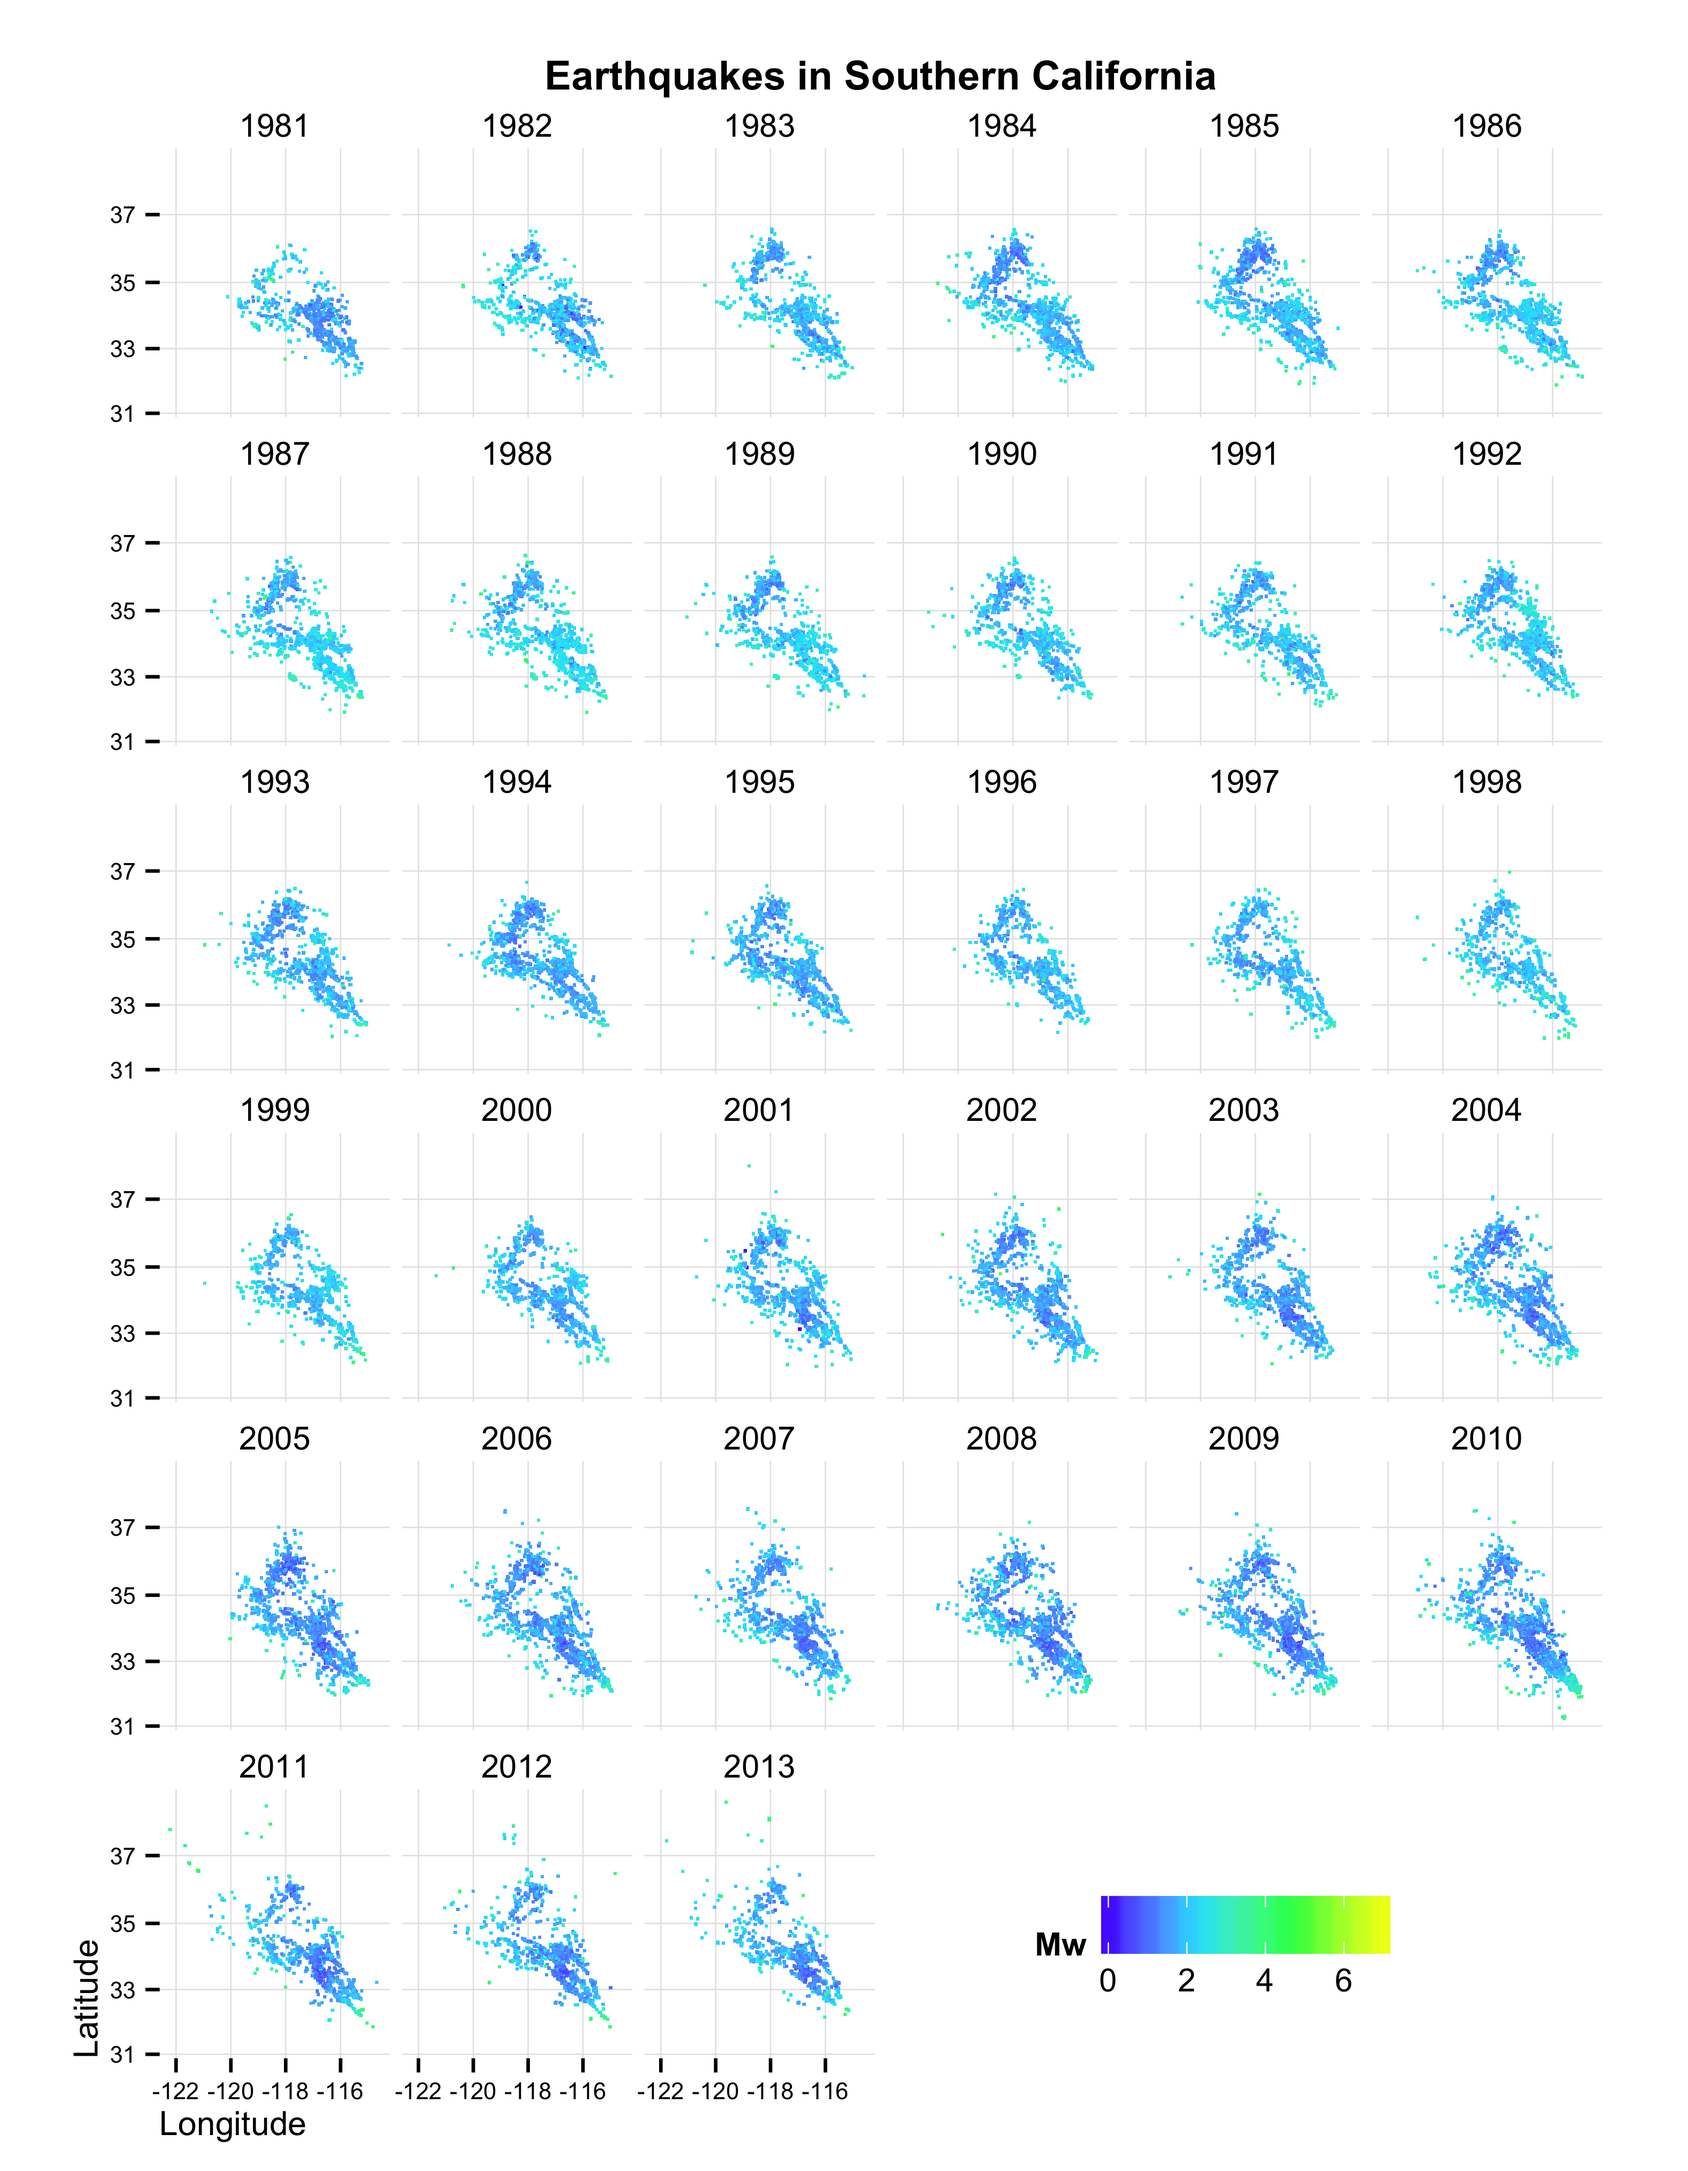
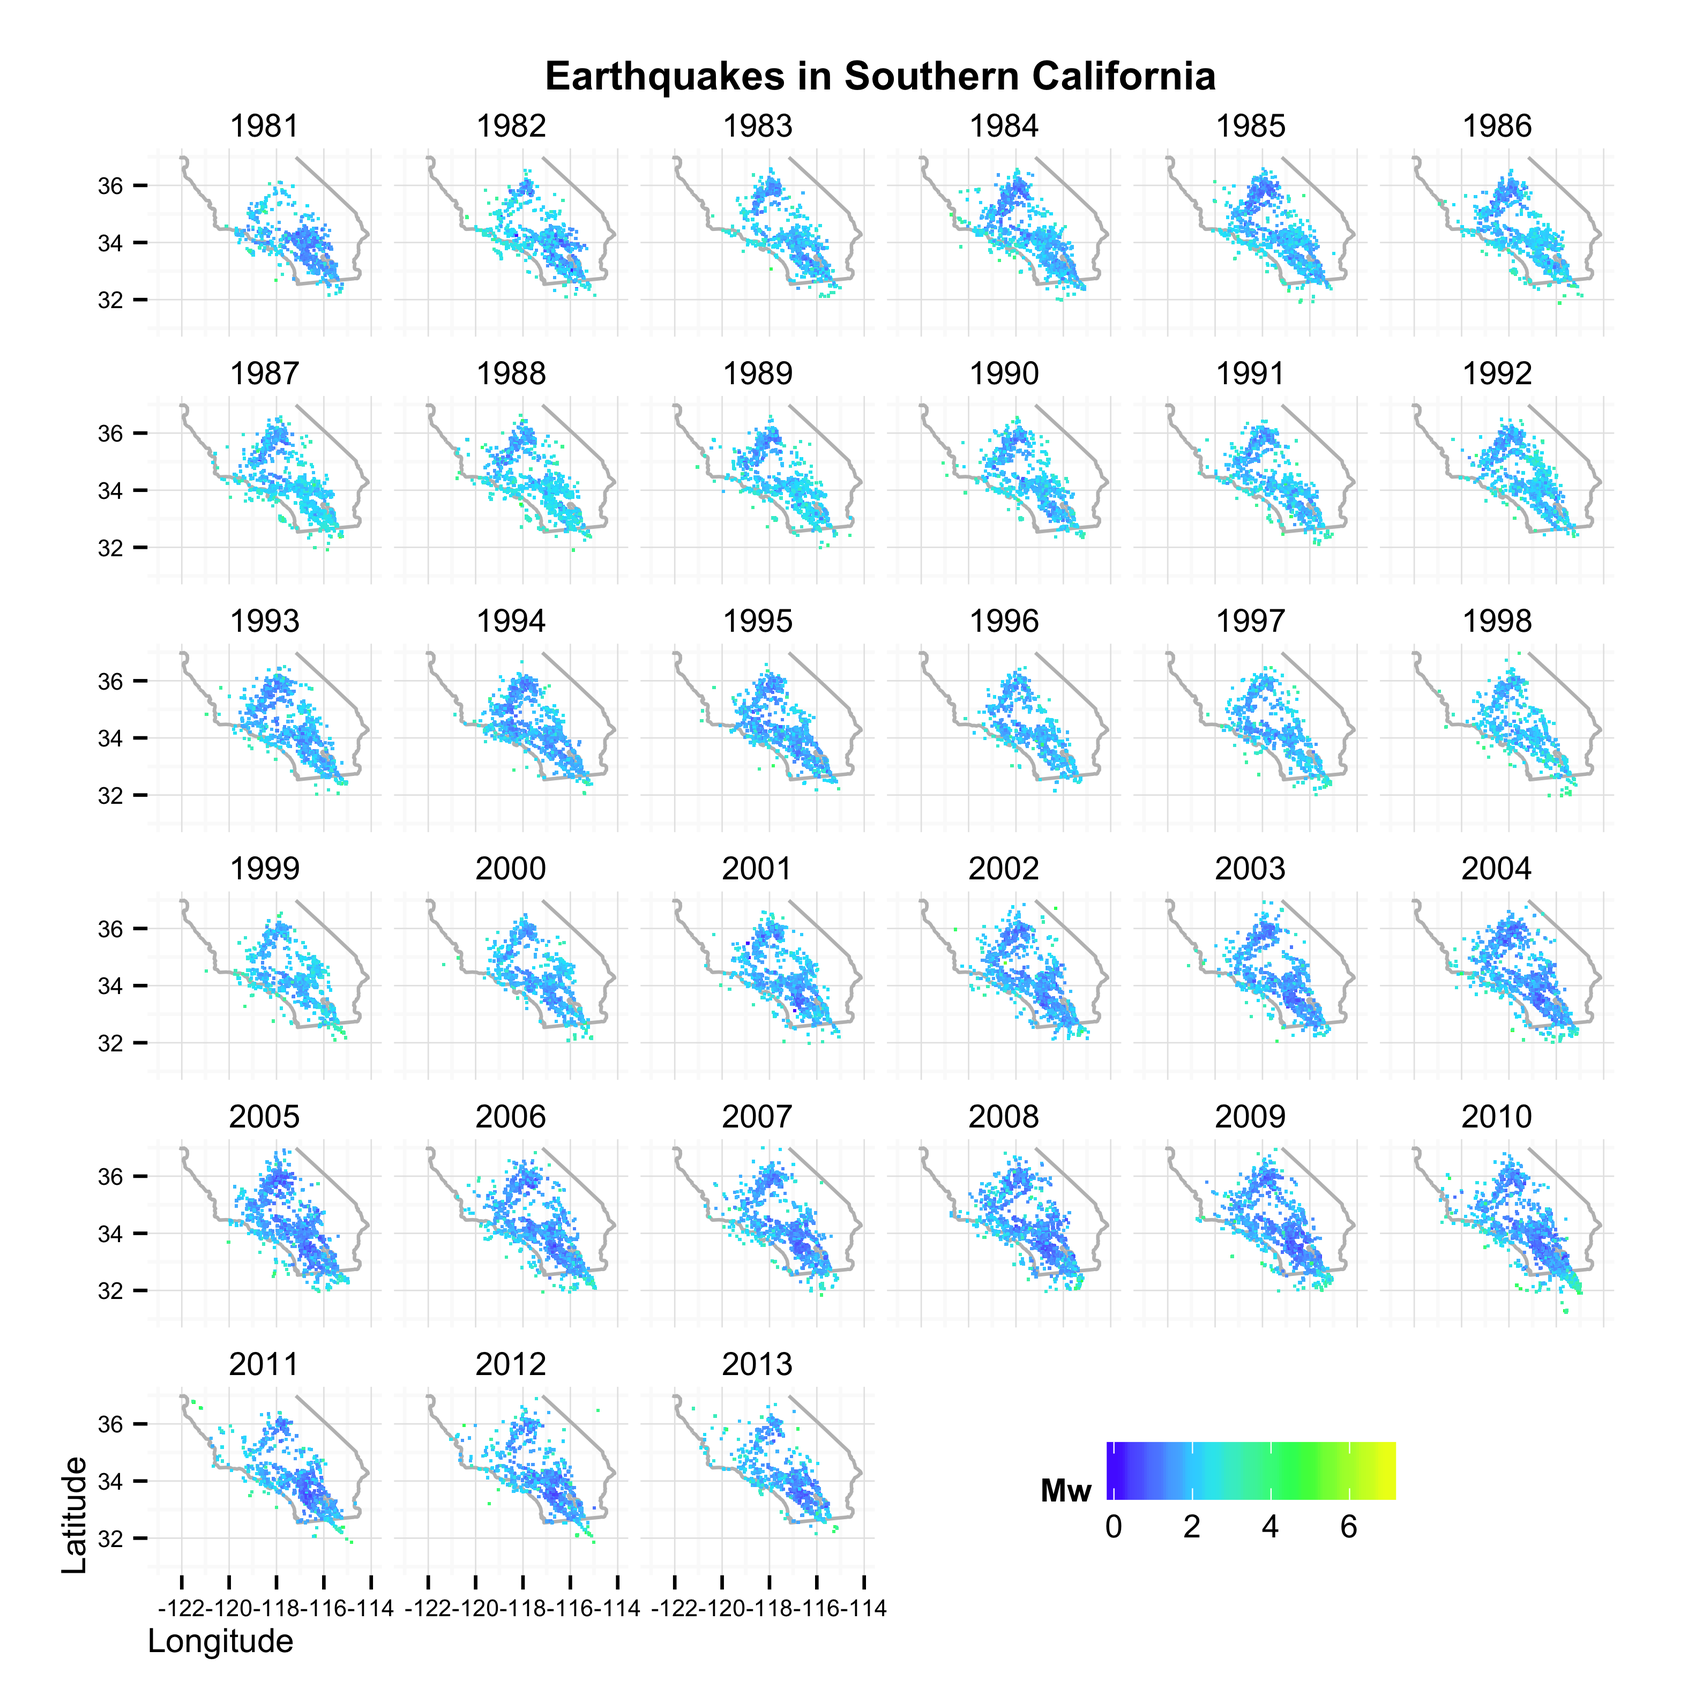
Fixed up the plot and readme slightly.

diff --git a/README.md b/README.md
@@ -1,6 +1,9 @@
 # ysh.catalog [![Build Status](https://travis-ci.org/abarbour/ysh.catalog.svg?branch=master)](https://travis-ci.org/abarbour/ysh.catalog) [![License](http://img.shields.io/badge/license-GPL%203-brightgreen.svg?style=flat)](http://www.gnu.org/licenses/gpl-3.0.html)
 
-The Yang, Hauksson, and Shearer (2012) [refined focal mechanism catalog][yhs] in an R package. 
+This is an R package which bundles
+the Yang, Hauksson, and Shearer (2012) [refined focal mechanism catalog][yhs]
+together. 
+
 A note on the version number: the patch version represents the year and month the dataset
 was assembled (e.g. 201503 is March 2015).
 
@@ -12,7 +15,8 @@ Install the package:
     require(devtools)
     install_github("abarbour/yhs.catalog")
 
-Load the package and dataset (lazy loading):
+Load the package (lazy loading is enabled, so datasets are
+attached by default):
 
     library(yhs.catalog)
     
@@ -28,20 +32,28 @@ Tabulate classifications:
 Plot in spatial coordinates by year:
 
     library(ggplot2)
-    print( p <- ggplot(yhs, aes(x=Lon.deg, y=Lat.deg)) + 
-                geom_point(shape='.', aes(colour=Mw)) + 
-                coord_map() + 
-                facet_wrap(~Year) + 
-                scale_colour_gradientn(colours=(topo.colors(4)))+
-                theme_minimal() +
-                theme(axis.text = element_text(size=7),
-                      axis.title = element_text(size=10, hjust=0),
-                      plot.title = element_text(size=12,face="bold"),
-                      legend.position=c(0.73,0.06),
-                      legend.direction="horizontal") +
-                xlab("Longitude") + 
-                ylab("Latitude") +
-                ggtitle("Earthquakes in Southern California") )
+	library(maps)
+
+	calif <- map_data("state", region = 'california')
+
+	print(p <- ggplot(yhs, aes(x=Lon.deg, y=Lat.deg)) + 
+			geom_path(data=calif, aes(x=long, y=lat, group = group), colour="grey") +
+			geom_path(data=saltonsea, aes(x=Lon.deg, y=Lat.deg), colour="grey") +
+			geom_point(shape='.', aes(colour=Mw)) + 
+			coord_quickmap() + 
+			facet_wrap(~Year) + 
+			scale_colour_gradientn(colours=(topo.colors(4)))+
+			theme_minimal() +
+			theme(axis.text = element_text(size=7),
+				  axis.title = element_text(size=10, hjust=0),
+				  plot.title = element_text(size=12,face="bold"),
+				  legend.position=c(0.73,0.06),
+				  legend.direction="horizontal") +
+			xlim(-123,-114) +
+			ylim(31,37) +
+			xlab("Longitude") + 
+			ylab("Latitude") +
+			ggtitle("Earthquakes in Southern California")
 
 ![alt text][years]
 
